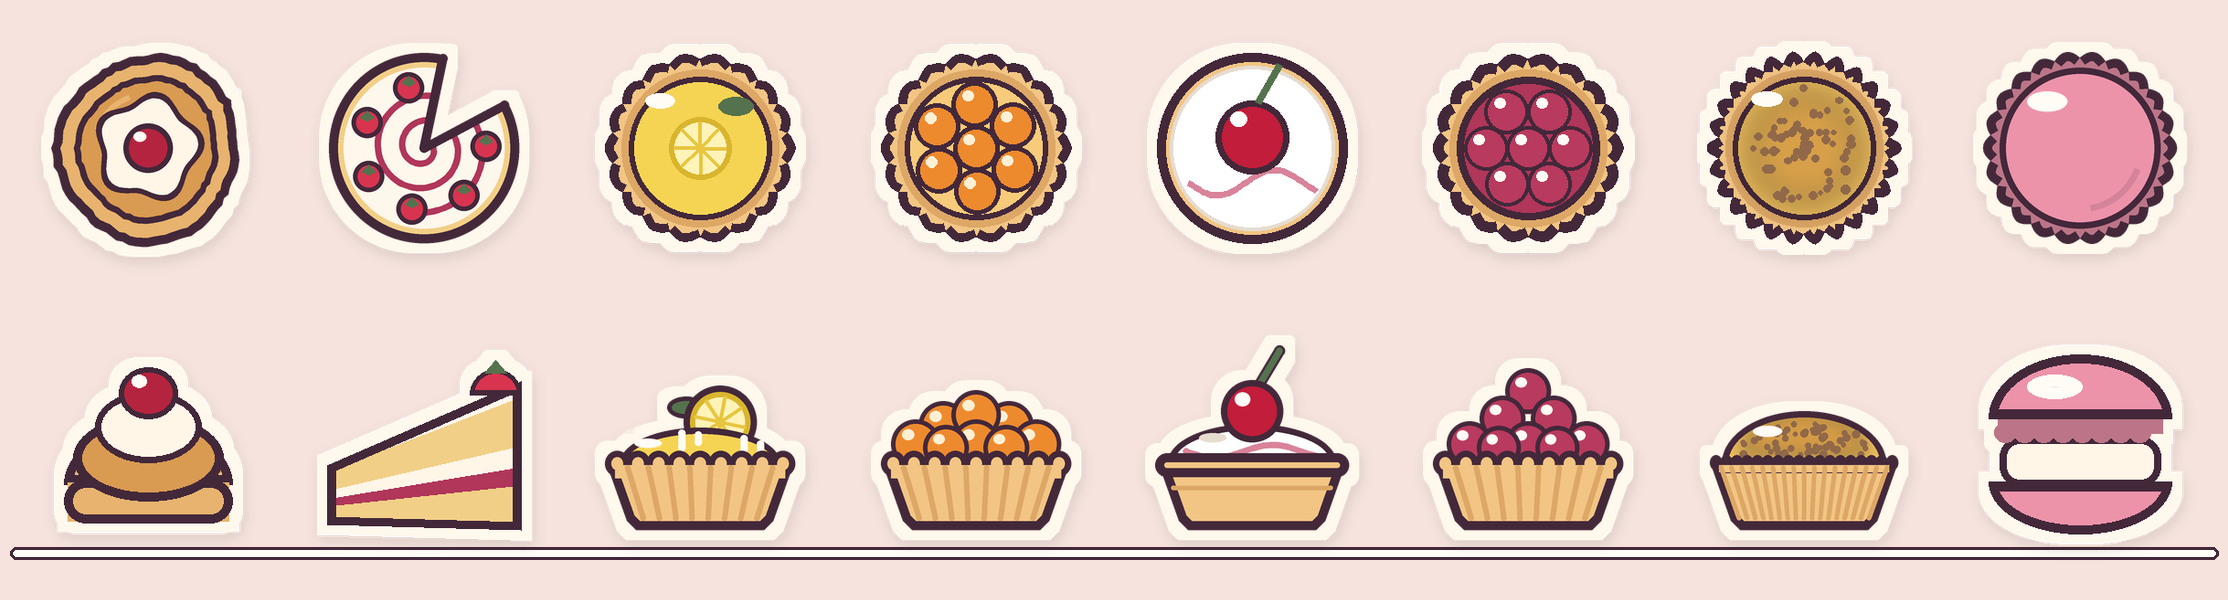
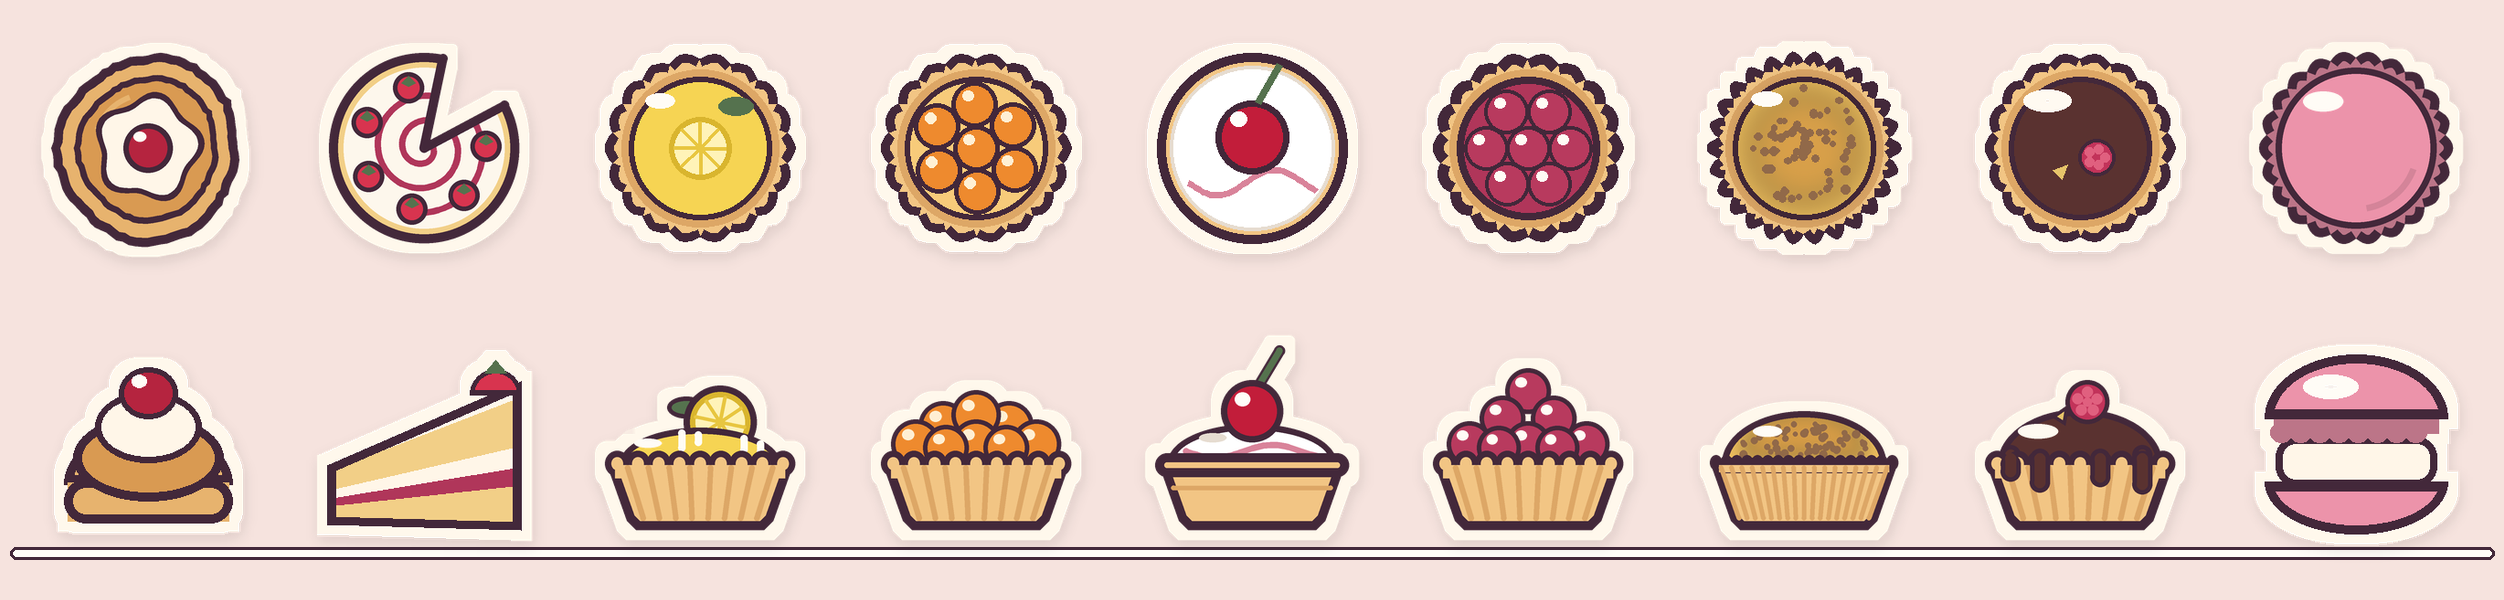
Add chocolate tart side and top views
Claude-Session: https://claude.ai/code/session_01FBTEVVeBLV7VWMw55RgXVW

diff --git a/art/tools/export_views.py b/art/tools/export_views.py
@@ -15,7 +15,7 @@ OC = rgb(INK); OW = 10; HL = (255, 255, 255, 130)
 CRUST = rgb("#F2C584"); CRUST_D = rgb("#DDA766"); CREAMY = rgb("#FFF6E8")
 SS = 3   # supersample; shapes are authored in 256-px units
 LEGACY = {"scone": "side", "victoria": "side", "lemon": "top", "apricot": "top", "bakewell": "top", "berry": "top",
-          "custard": "top", "macaron": "side"}
+          "custard": "top", "macaron": "side", "chocolate": "top"}
 
 
 class Pen:
@@ -133,6 +133,23 @@ def custard_side():
     crust_wall(p, flutes=9, crimp=True)
     return p.done()
 
+def chocolate_side():
+    p = Pen(); choc = rgb("#5A3230")
+    dome(p, choc, 60, inset=12)                                  # glossy ganache dome
+    p.ellipse([60, 106, 104, 122], fill=(255, 255, 255, 70))
+    for x, y0, y1 in ((52, 140, 158), (84, 144, 170), (150, 144, 164), (196, 140, 172)):   # ganache drips over the rim
+        p.line([(x, y0), (x, y1)], fill=OC, width=22); p.line([(x, y0), (x, y1)], fill=choc, width=12)
+    bx, by, br = 136, 82, 24                                     # raspberry + gold leaf, as on the top view
+    p.poly([(96, 98), (116, 84), (112, 108)], fill=rgb("#E7C46A"), outline=OC, width=4)
+    p.circle(bx, by, br, fill=rgb("#C2335A"), outline=OC, width=5)
+    for k in range(5):
+        a = k * 2 * math.pi / 5 - 0.3; p.circle(bx + math.cos(a) * 11, by + math.sin(a) * 11, 6, fill=rgb("#E0607F"))
+    p.circle(bx, by, 5, fill=rgb("#E0607F"))
+    crust_wall(p, flutes=9)
+    for x, y0, y1 in ((52, 150, 158), (84, 150, 170), (150, 150, 164), (196, 150, 172)):   # drips sit in front of the crust
+        p.line([(x, y0), (x, y1)], fill=OC, width=22); p.line([(x, y0 - 6), (x, y1)], fill=choc, width=12)
+    return p.done()
+
 def bakewell_side():
     p = Pen()
     p.line([(134, 66), (158, 26)], fill=OC, width=12); p.line([(134, 66), (158, 26)], fill=rgb(SAGE), width=7)   # stem
@@ -194,7 +211,7 @@ def macaron_top():
 
 
 NEW = {"scone": ("top", scone_top), "victoria": ("top", victoria_top), "lemon": ("side", lemon_side), "apricot": ("side", apricot_side),
-       "bakewell": ("side", bakewell_side), "berry": ("side", berry_side), "custard": ("side", custard_side), "macaron": ("top", macaron_top)}
+       "bakewell": ("side", bakewell_side), "berry": ("side", berry_side), "custard": ("side", custard_side), "chocolate": ("side", chocolate_side), "macaron": ("top", macaron_top)}
 
 IMPORT_TMPL = open(os.path.join(OUT, "cake_scone.png.import")).read()
 def write_import(name):
